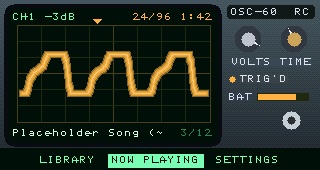
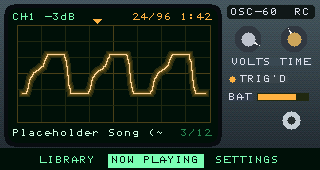
fix(theme): scope glow is a faint bloom around a thin hot core, not a fat line
The previous halo weights were too bright, so the layers read as thickness and
hid the grid. Steep falloff (22..310 permille) plus a whiter 1 px core, as on a
real phosphor trace.

Changed region(s): [[0.0625, 0.2941, 0.6562, 0.5882]]

diff --git a/firmware/theme/theme_skin.c b/firmware/theme/theme_skin.c
@@ -1451,7 +1451,9 @@ __attribute__((noinline)) static void skin_scope(
     int halo)
 {
     static const short k_r[7] = { 7, 5, 4, 3, 2, 1, 0 };
-    static const short k_w[7] = { 40, 90, 150, 230, 360, 600, 1000 };
+    /* Steep falloff: a thin bright core with a faint bloom reads as light; a
+     * bright halo reads as a fat line. */
+    static const short k_w[7] = { 22, 45, 80, 130, 200, 310, 1000 };
     const short *a, *b;
     int n, pass, i;
     int xy = ch != 0 && key_eq(ch, "xy");
@@ -1475,7 +1477,7 @@ __attribute__((noinline)) static void skin_scope(
         if (wt > 950)
             wt = 950;
         /* hot core: phosphor burns whiter at its centre than in its halo */
-        col = pass == 6 ? mix565(core, 0xFFFF, 720) : mix565(core, bg, wt);
+        col = pass == 6 ? mix565(core, 0xFFFF, 480) : mix565(core, bg, wt);
         if (xy) {
             for (i = 0; i < n; i++) {
                 int cx = x + w / 2 + (a[i] * gain / 1000) * (w / 2) / 1000;
